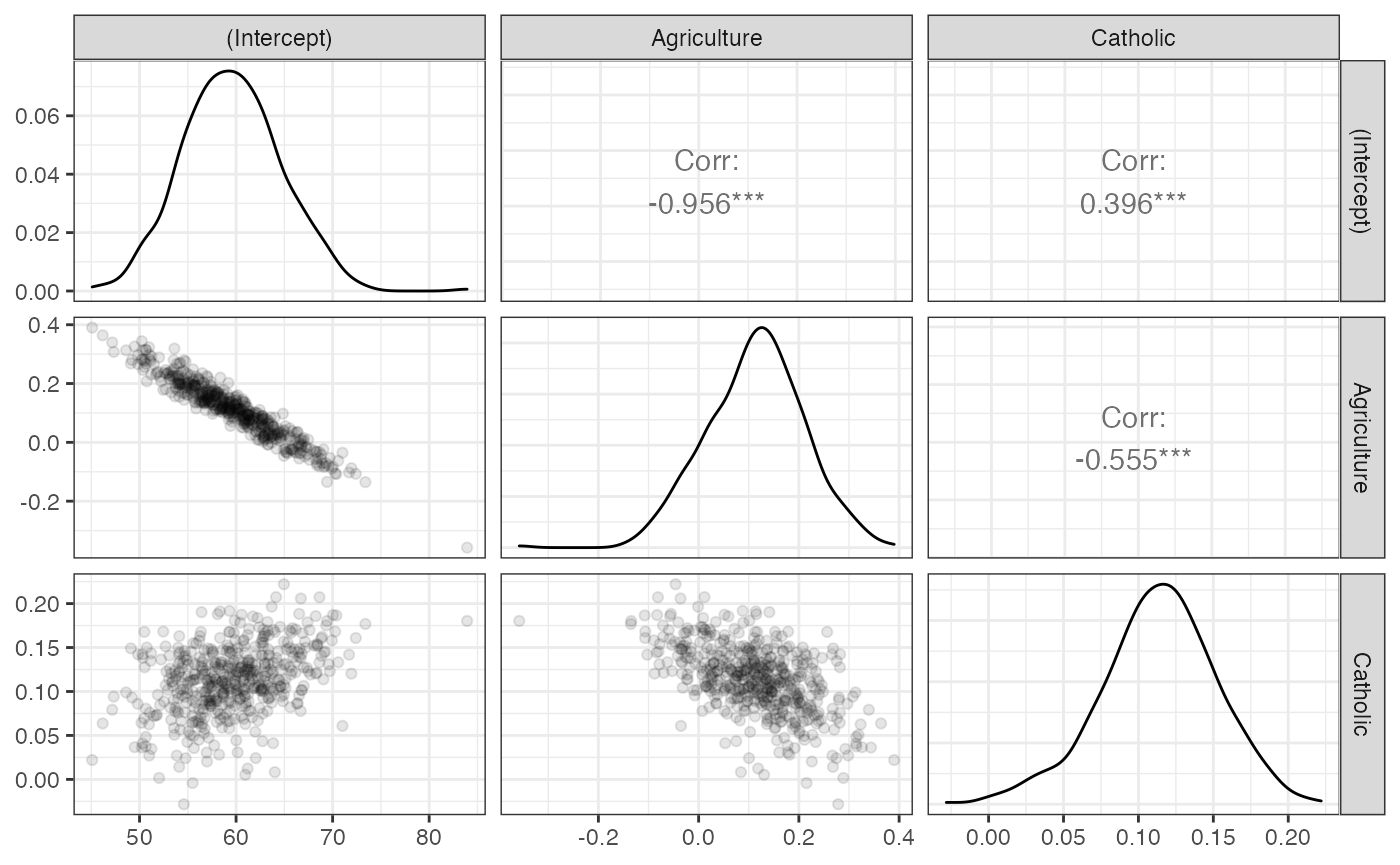
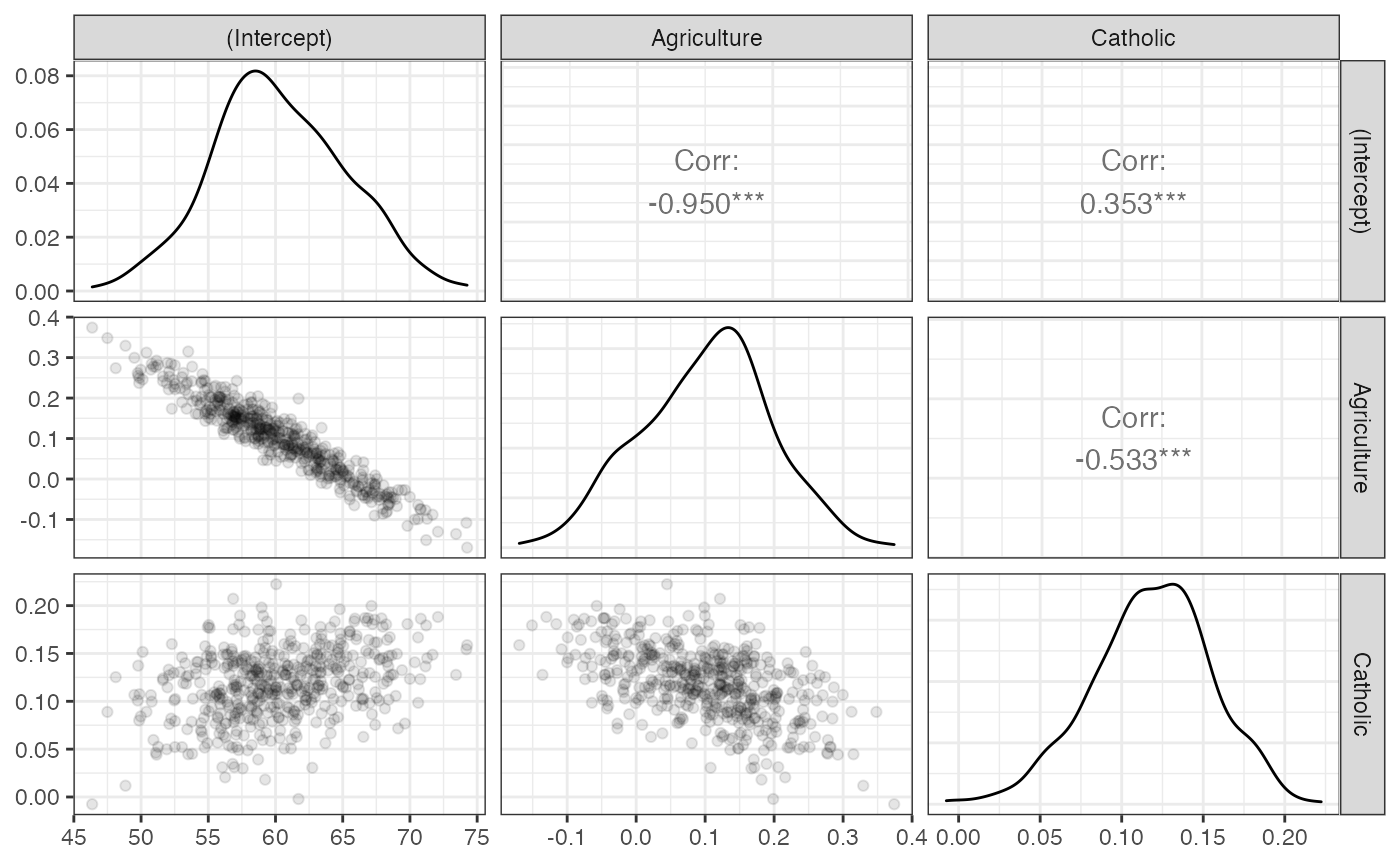
Deploying to gh-pages from  @ 72e1fd66c1514aa040905007cb2fb24cc526f358 🚀

diff --git a/r/estimatr/articles/estimatr-in-the-tidyverse.html b/r/estimatr/articles/estimatr-in-the-tidyverse.html
@@ -271,72 +271,72 @@
 <tr class="odd">
 <td align="left">1</td>
 <td align="left">(Intercept)</td>
-<td align="right">57.4773982</td>
-<td align="right">5.7813924</td>
-<td align="right">9.941792</td>
+<td align="right">55.8762378</td>
+<td align="right">6.0416321</td>
+<td align="right">9.248534</td>
 <td align="right">0.0000000</td>
-<td align="right">45.8257675</td>
-<td align="right">69.1290289</td>
+<td align="right">43.7001283</td>
+<td align="right">68.0523474</td>
 <td align="right">44</td>
 <td align="left">Fertility</td>
 </tr>
 <tr class="even">
 <td align="left">1</td>
 <td align="left">Catholic</td>
-<td align="right">0.1106587</td>
-<td align="right">0.0356146</td>
-<td align="right">3.107116</td>
-<td align="right">0.0033044</td>
-<td align="right">0.0388822</td>
-<td align="right">0.1824352</td>
+<td align="right">0.1021776</td>
+<td align="right">0.0373769</td>
+<td align="right">2.733706</td>
+<td align="right">0.0089873</td>
+<td align="right">0.0268493</td>
+<td align="right">0.1775059</td>
 <td align="right">44</td>
 <td align="left">Fertility</td>
 </tr>
 <tr class="odd">
 <td align="left">1</td>
 <td align="left">Agriculture</td>
-<td align="right">0.1709319</td>
-<td align="right">0.1063781</td>
-<td align="right">1.606833</td>
-<td align="right">0.1152446</td>
-<td align="right">-0.0434591</td>
-<td align="right">0.3853229</td>
+<td align="right">0.2012381</td>
+<td align="right">0.1112300</td>
+<td align="right">1.809207</td>
+<td align="right">0.0772541</td>
+<td align="right">-0.0229312</td>
+<td align="right">0.4254074</td>
 <td align="right">44</td>
 <td align="left">Fertility</td>
 </tr>
 <tr class="even">
 <td align="left">2</td>
 <td align="left">(Intercept)</td>
-<td align="right">54.9811400</td>
-<td align="right">5.4838855</td>
-<td align="right">10.025946</td>
+<td align="right">57.0240193</td>
+<td align="right">5.4702873</td>
+<td align="right">10.424319</td>
 <td align="right">0.0000000</td>
-<td align="right">43.9290951</td>
-<td align="right">66.0331849</td>
+<td align="right">45.9993796</td>
+<td align="right">68.0486590</td>
 <td align="right">44</td>
 <td align="left">Fertility</td>
 </tr>
 <tr class="odd">
 <td align="left">2</td>
 <td align="left">Catholic</td>
-<td align="right">0.1174184</td>
-<td align="right">0.0382661</td>
-<td align="right">3.068469</td>
-<td align="right">0.0036761</td>
-<td align="right">0.0402981</td>
-<td align="right">0.1945387</td>
+<td align="right">0.0876245</td>
+<td align="right">0.0453054</td>
+<td align="right">1.934085</td>
+<td align="right">0.0595503</td>
+<td align="right">-0.0036826</td>
+<td align="right">0.1789316</td>
 <td align="right">44</td>
 <td align="left">Fertility</td>
 </tr>
 <tr class="even">
 <td align="left">2</td>
 <td align="left">Agriculture</td>
-<td align="right">0.2038952</td>
-<td align="right">0.1016551</td>
-<td align="right">2.005754</td>
-<td align="right">0.0510556</td>
-<td align="right">-0.0009772</td>
-<td align="right">0.4087677</td>
+<td align="right">0.1609143</td>
+<td align="right">0.1089413</td>
+<td align="right">1.477074</td>
+<td align="right">0.1467781</td>
+<td align="right">-0.0586424</td>
+<td align="right">0.3804710</td>
 <td align="right">44</td>
 <td align="left">Fertility</td>
 </tr>
@@ -350,9 +350,9 @@
 <pre><code>## # A tibble: 3 x 2
 ##   term        boot_se
 ##   &lt;chr&gt;         &lt;dbl&gt;
-## 1 (Intercept)  5.10  
-## 2 Agriculture  0.0973
-## 3 Catholic     0.0387</code></pre>
+## 1 (Intercept)  4.95  
+## 2 Agriculture  0.0939
+## 3 Catholic     0.0367</code></pre>
 <div class="sourceCode" id="cb15"><pre class="downlit sourceCode r">
 <code class="sourceCode R"><span class="co"># To visualize the sampling distribution</span>
 

diff --git a/r/estimatr/articles/absorbing-fixed-effects.html b/r/estimatr/articles/absorbing-fixed-effects.html
@@ -191,9 +191,9 @@
 <span class="op">)</span></code></pre></div>
 <pre><code>## Unit: milliseconds
 ##             expr       min        lq      mean    median        uq      max
-##  base + sandwich 170.88259 174.99490 185.91772 177.93505 187.82194 336.6767
-##        lm_robust  76.75563  79.58651  87.37629  82.25877  88.27976 200.0232
-##  lm_robust + fes  48.95074  50.03310  57.37411  51.27212  53.07506 189.5907
+##  base + sandwich 170.60100 174.32987 186.01497 178.32661 184.09459 306.4298
+##        lm_robust  75.91274  79.65225  87.27601  81.22721  86.73452 243.1526
+##  lm_robust + fes  48.44579  50.59589  60.37943  52.63646  53.72233 184.4813
 ##  neval cld
 ##     50   c
 ##     50  b 
@@ -220,14 +220,14 @@
   times <span class="op">=</span> <span class="fl">50</span>
 <span class="op">)</span></code></pre></div>
 <pre><code>## Unit: milliseconds
-##             expr        min         lq       mean     median        uq
-##  base + sandwich 170.144802 177.345443 196.206580 181.339400 194.98013
-##        lm_robust  60.782288  64.210694  67.608994  66.576257  68.74721
-##  lm_robust + fes   7.605886   8.022156   9.265838   8.396672  10.03751
-##        max neval cld
-##  322.73428    50   c
-##   99.72557    50  b 
-##   13.86369    50 a</code></pre>
+##             expr        min         lq      mean     median        uq       max
+##  base + sandwich 169.802787 174.335224 200.30813 179.595629 202.38308 369.73992
+##        lm_robust  61.002115  63.791924  69.56901  65.425301  69.01038  97.52298
+##  lm_robust + fes   7.287207   7.632504  10.29713   8.141143  10.76144  60.09175
+##  neval cld
+##     50   c
+##     50  b 
+##     50 a</code></pre>
 </div>
   </div>
 

diff --git a/r/estimatr/reference/starprep.html b/r/estimatr/reference/starprep.html
@@ -239,7 +239,7 @@ the preferred, robust statistics.</p>
           omit.stat <span class='op'>=</span> <span class='st'>"f"</span><span class='op'>)</span>
 </div><div class='output co'>#&gt; 
 #&gt; % Table created by stargazer v.5.2.2 by Marek Hlavac, Harvard University. E-mail: hlavac at fas.harvard.edu
-#&gt; % Date and time: Mon, May 03, 2021 - 23:23:07
+#&gt; % Date and time: Tue, May 04, 2021 - 23:20:08
 #&gt; \begin{table}[!htbp] \centering 
 #&gt;   \caption{} 
 #&gt;   \label{} 
@@ -279,7 +279,7 @@ the preferred, robust statistics.</p>
           omit.stat <span class='op'>=</span> <span class='st'>"f"</span><span class='op'>)</span>
 </div><div class='output co'>#&gt; 
 #&gt; % Table created by stargazer v.5.2.2 by Marek Hlavac, Harvard University. E-mail: hlavac at fas.harvard.edu
-#&gt; % Date and time: Mon, May 03, 2021 - 23:23:07
+#&gt; % Date and time: Tue, May 04, 2021 - 23:20:08
 #&gt; \begin{table}[!htbp] \centering 
 #&gt;   \caption{} 
 #&gt;   \label{} 
@@ -316,7 +316,7 @@ the preferred, robust statistics.</p>
           omit.stat <span class='op'>=</span> <span class='st'>"f"</span><span class='op'>)</span>
 </div><div class='output co'>#&gt; 
 #&gt; % Table created by stargazer v.5.2.2 by Marek Hlavac, Harvard University. E-mail: hlavac at fas.harvard.edu
-#&gt; % Date and time: Mon, May 03, 2021 - 23:23:08
+#&gt; % Date and time: Tue, May 04, 2021 - 23:20:08
 #&gt; \begin{table}[!htbp] \centering 
 #&gt;   \caption{} 
 #&gt;   \label{} 

diff --git a/r/estimatr/articles/regression-tables.html b/r/estimatr/articles/regression-tables.html
@@ -258,7 +258,7 @@
 <span class="va">fit</span> <span class="op">&lt;-</span> <span class="fu"><a href="../reference/lm_robust.html">lm_robust</a></span><span class="op">(</span><span class="va">mpg</span> <span class="op">~</span> <span class="va">disp</span>, data <span class="op">=</span> <span class="va">mtcars</span><span class="op">)</span>
 <span class="va">fit</span> <span class="op">%&gt;%</span> <span class="va">tidy</span> <span class="op">%&gt;%</span> <span class="fu"><a href="https://rdrr.io/pkg/xtable/man/xtable.html">xtable</a></span><span class="op">(</span><span class="op">)</span></code></pre></div>
 <pre><code>## % latex table generated in R 4.0.5 by xtable 1.8-4 package
-## % Mon May  3 23:24:15 2021
+## % Tue May  4 23:21:15 2021
 ## \begin{table}[ht]
 ## \centering
 ## \begin{tabular}{rlrrrrrrrl}
